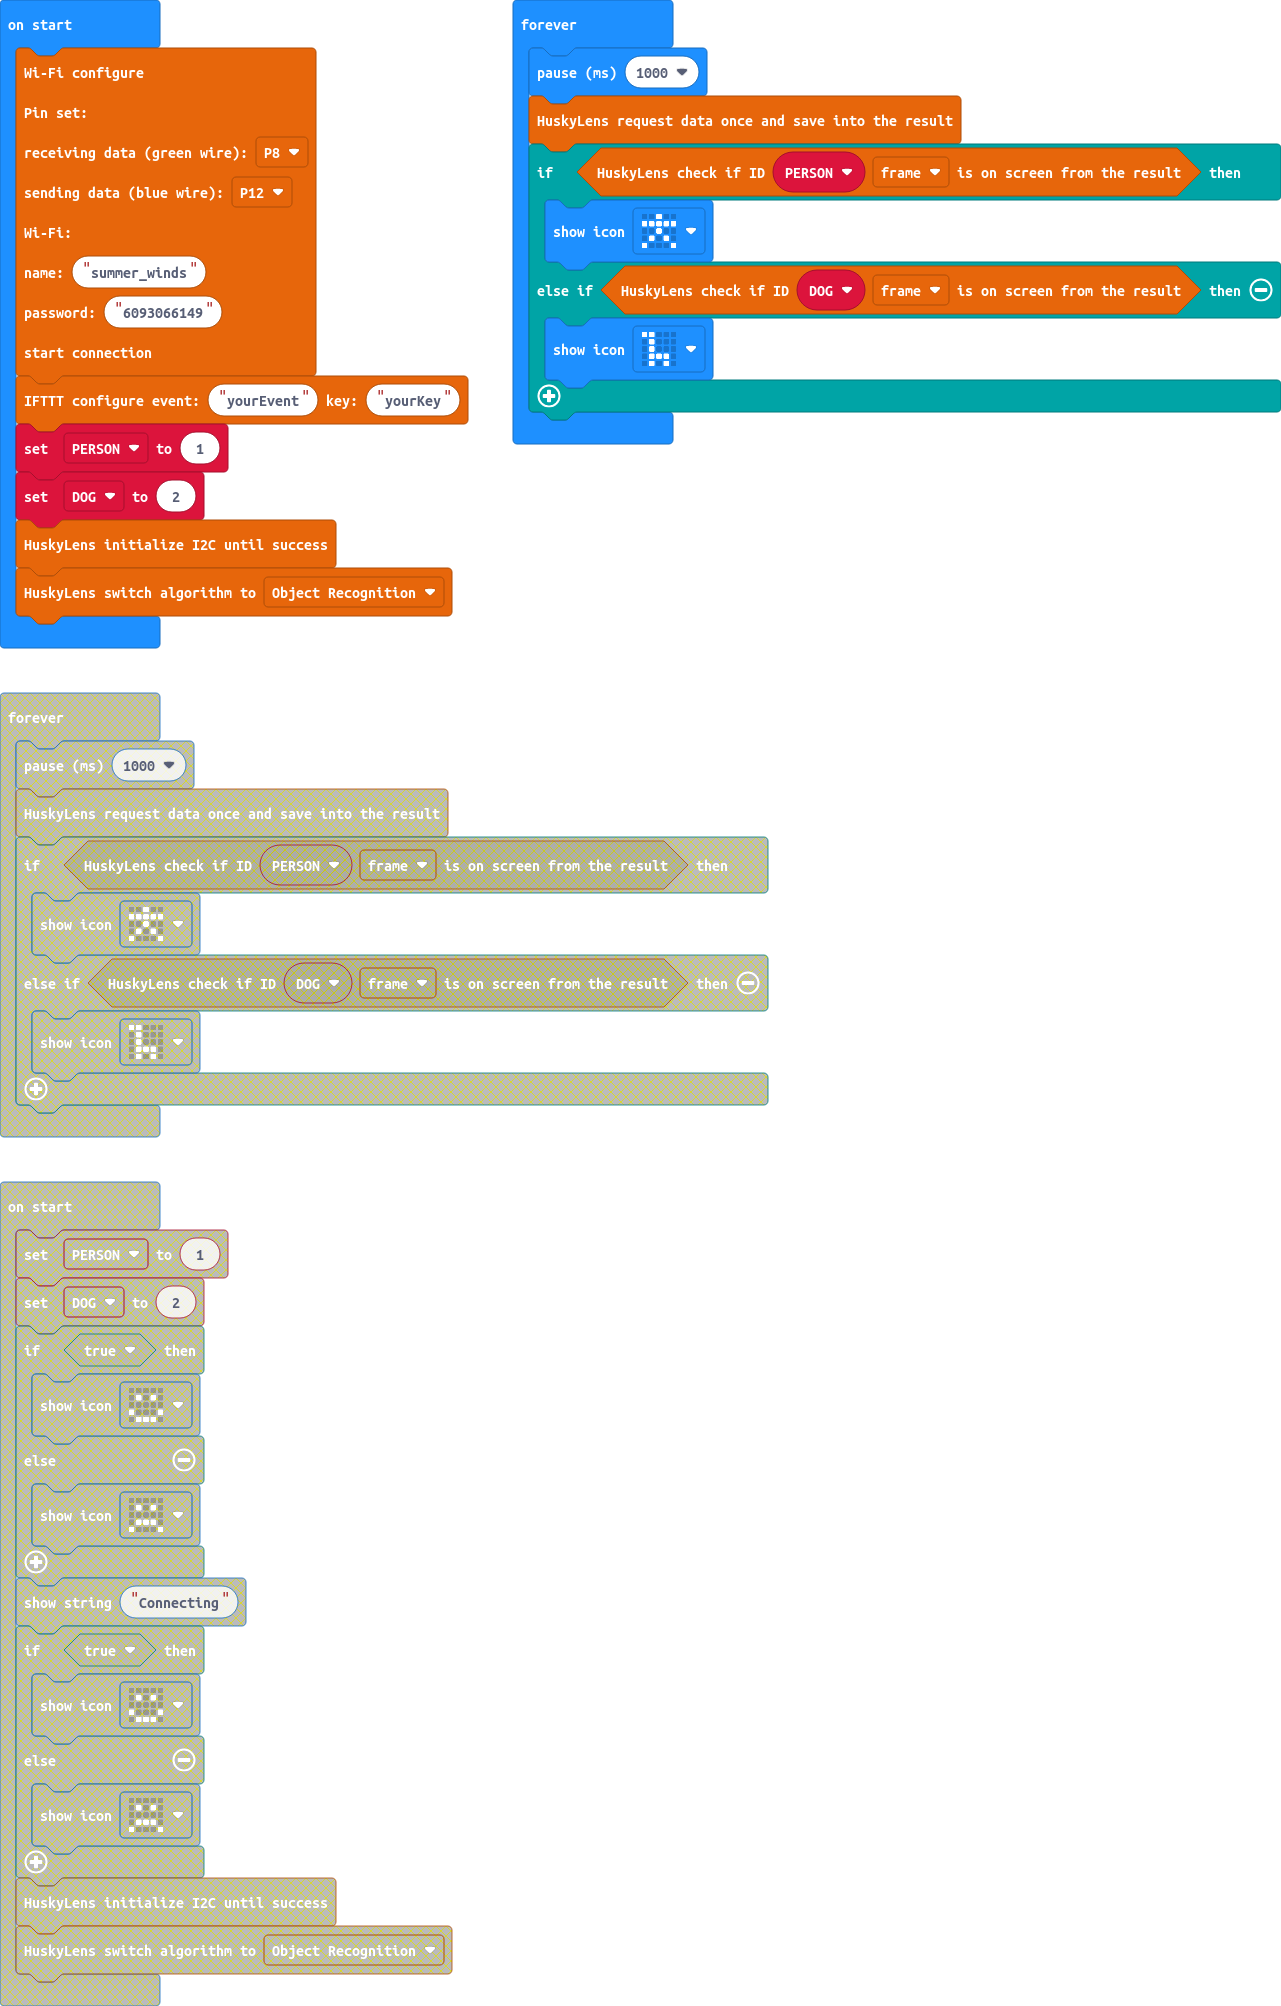
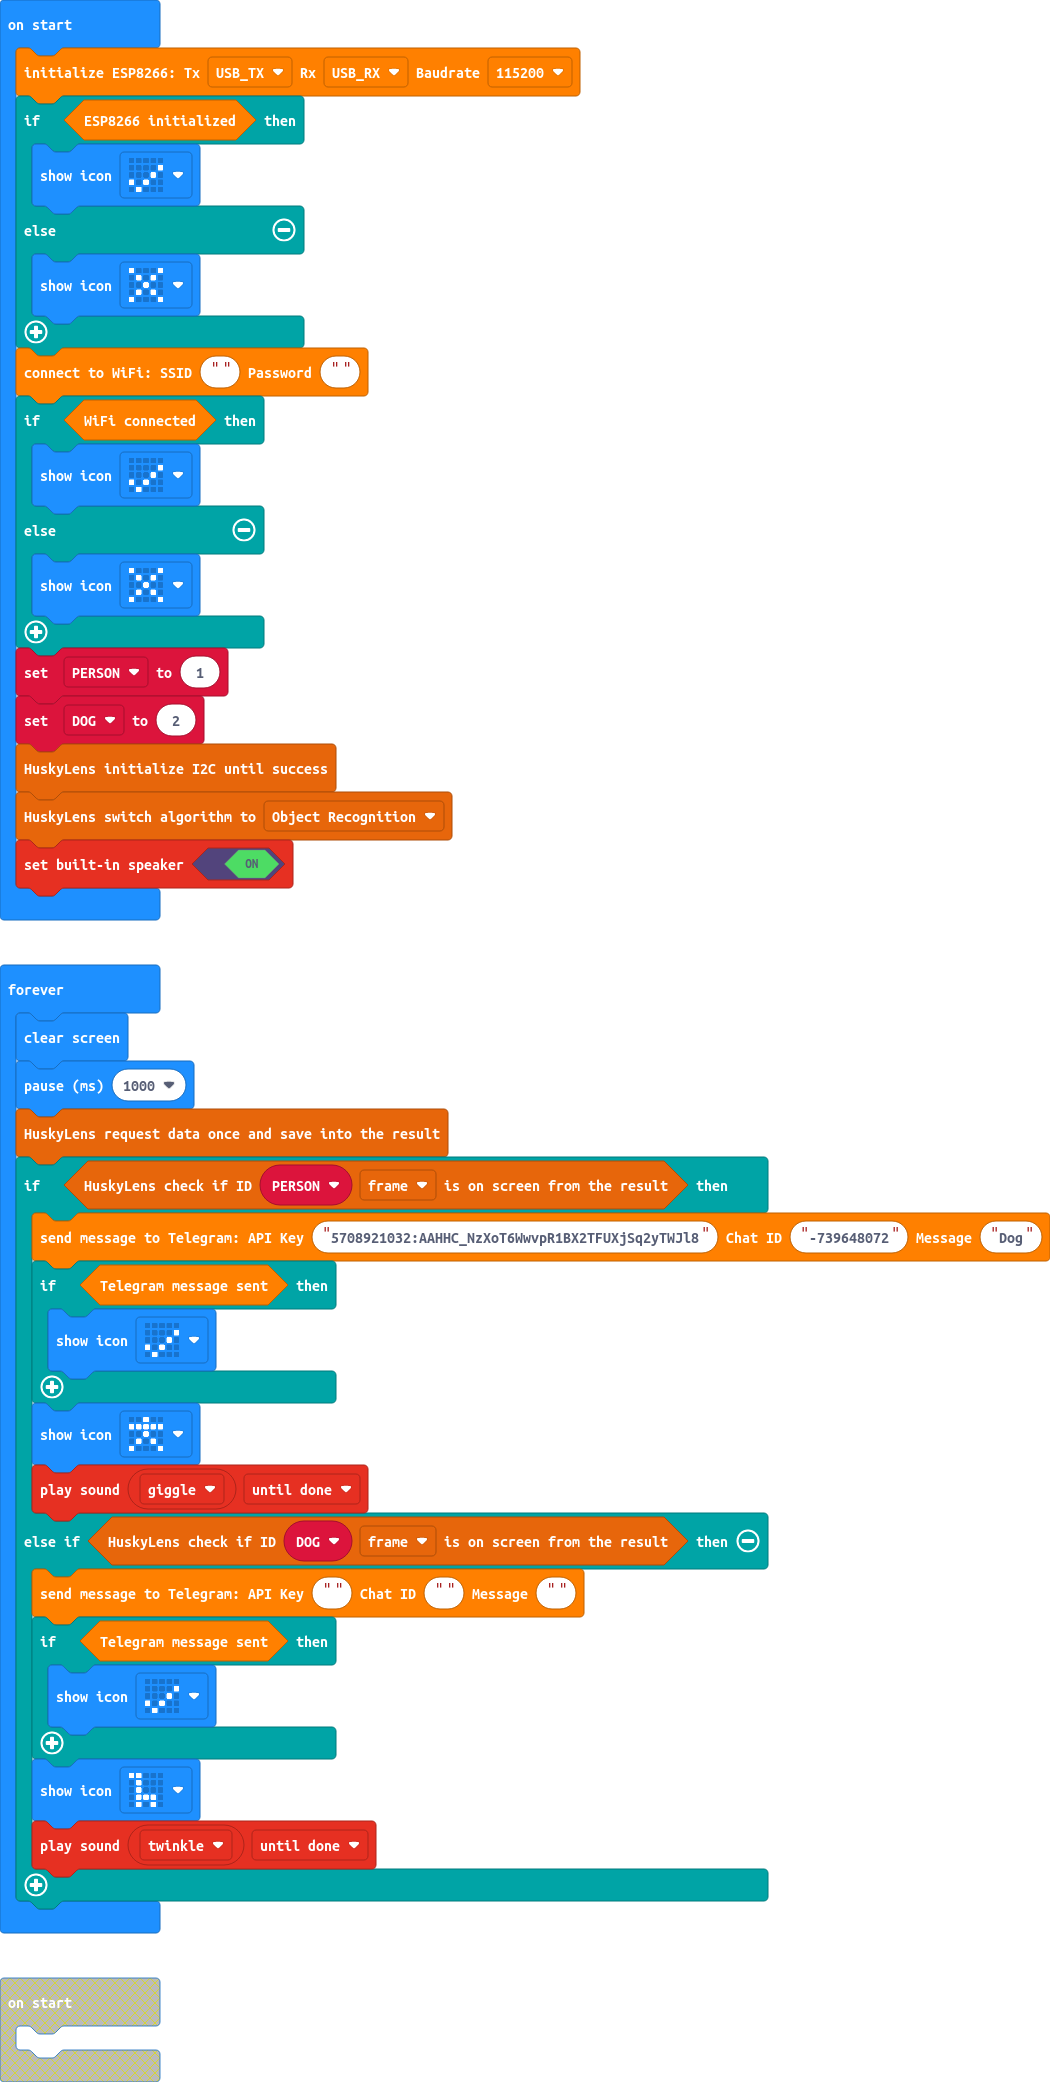
Update pxt.json, main.blocks, main.ts, main.py

diff --git a/main.ts b/main.ts
@@ -1,23 +1,37 @@
-input.onButtonPressed(Button.A, function () {
-	
-})
-DFRobotWiFiIoTUART.WIFISetup(
-SerialPin.P8,
-SerialPin.P12,
-"summer_winds",
-"6093066149"
-)
-DFRobotWiFiIoTUART.IFTTTConfigure("yourEvent", "yourKey")
+esp8266.init(SerialPin.USB_TX, SerialPin.USB_RX, BaudRate.BaudRate115200)
+if (esp8266.isESP8266Initialized()) {
+    basic.showIcon(IconNames.Yes)
+} else {
+    basic.showIcon(IconNames.No)
+}
+esp8266.connectWiFi("", "")
+if (esp8266.isWifiConnected()) {
+    basic.showIcon(IconNames.Yes)
+} else {
+    basic.showIcon(IconNames.No)
+}
 let PERSON = 1
 let DOG = 2
 huskylens.initI2c()
 huskylens.initMode(protocolAlgorithm.ALGORITHM_OBJECT_RECOGNITION)
+music.setBuiltInSpeakerEnabled(true)
 basic.forever(function () {
+    basic.clearScreen()
     basic.pause(1000)
     huskylens.request()
     if (huskylens.isAppear(PERSON, HUSKYLENSResultType_t.HUSKYLENSResultBlock)) {
+        esp8266.sendTelegramMessage("5708921032:AAHHC_NzXoT6WwvpR1BX2TFUXjSq2yTWJl8", "-739648072", "Dog")
+        if (esp8266.isTelegramMessageSent()) {
+            basic.showIcon(IconNames.Yes)
+        }
         basic.showIcon(IconNames.StickFigure)
+        music.playSoundEffect(music.builtinSoundEffect(soundExpression.giggle), SoundExpressionPlayMode.UntilDone)
     } else if (huskylens.isAppear(DOG, HUSKYLENSResultType_t.HUSKYLENSResultBlock)) {
+        esp8266.sendTelegramMessage("", "", "")
+        if (esp8266.isTelegramMessageSent()) {
+            basic.showIcon(IconNames.Yes)
+        }
         basic.showIcon(IconNames.Giraffe)
+        music.playSoundEffect(music.builtinSoundEffect(soundExpression.twinkle), SoundExpressionPlayMode.UntilDone)
     }
 })

diff --git a/main.py b/main.py
@@ -1,22 +1,35 @@
-def on_button_pressed_a():
-    pass
-input.on_button_pressed(Button.A, on_button_pressed_a)
-
-DFRobotWiFiIoTUART.wifi_setup(SerialPin.P8, SerialPin.P12, "summer_winds", "6093066149")
-basic.pause(5000)
-if True:
-    pass
+esp8266.init(SerialPin.USB_TX, SerialPin.USB_RX, BaudRate.BAUD_RATE115200)
+if esp8266.is_esp8266_initialized():
+    basic.show_icon(IconNames.YES)
+else:
+    basic.show_icon(IconNames.NO)
+esp8266.connect_wi_fi("", "")
+if esp8266.is_wifi_connected():
+    basic.show_icon(IconNames.YES)
+else:
+    basic.show_icon(IconNames.NO)
 PERSON = 1
 DOG = 2
-basic.show_string(DFRobotWiFiIoTUART.http_get("https://www.google.com", 10000))
 huskylens.init_i2c()
 huskylens.init_mode(protocolAlgorithm.ALGORITHM_OBJECT_RECOGNITION)
+music.set_built_in_speaker_enabled(True)
 
 def on_forever():
+    basic.clear_screen()
     basic.pause(1000)
     huskylens.request()
     if huskylens.is_appear(PERSON, HUSKYLENSResultType_t.HUSKYLENS_RESULT_BLOCK):
+        esp8266.send_telegram_message("AAHHC_NzXoT6WwvpR1BX2TFUXjSq2yTWJl8", "", "")
+        if esp8266.is_telegram_message_sent():
+            basic.show_icon(IconNames.YES)
         basic.show_icon(IconNames.STICK_FIGURE)
+        music.play_sound_effect(music.builtin_sound_effect(soundExpression.giggle),
+            SoundExpressionPlayMode.UNTIL_DONE)
     elif huskylens.is_appear(DOG, HUSKYLENSResultType_t.HUSKYLENS_RESULT_BLOCK):
+        esp8266.send_telegram_message("", "", "")
+        if esp8266.is_telegram_message_sent():
+            basic.show_icon(IconNames.YES)
         basic.show_icon(IconNames.GIRAFFE)
+        music.play_sound_effect(music.builtin_sound_effect(soundExpression.twinkle),
+            SoundExpressionPlayMode.UNTIL_DONE)
 basic.forever(on_forever)
